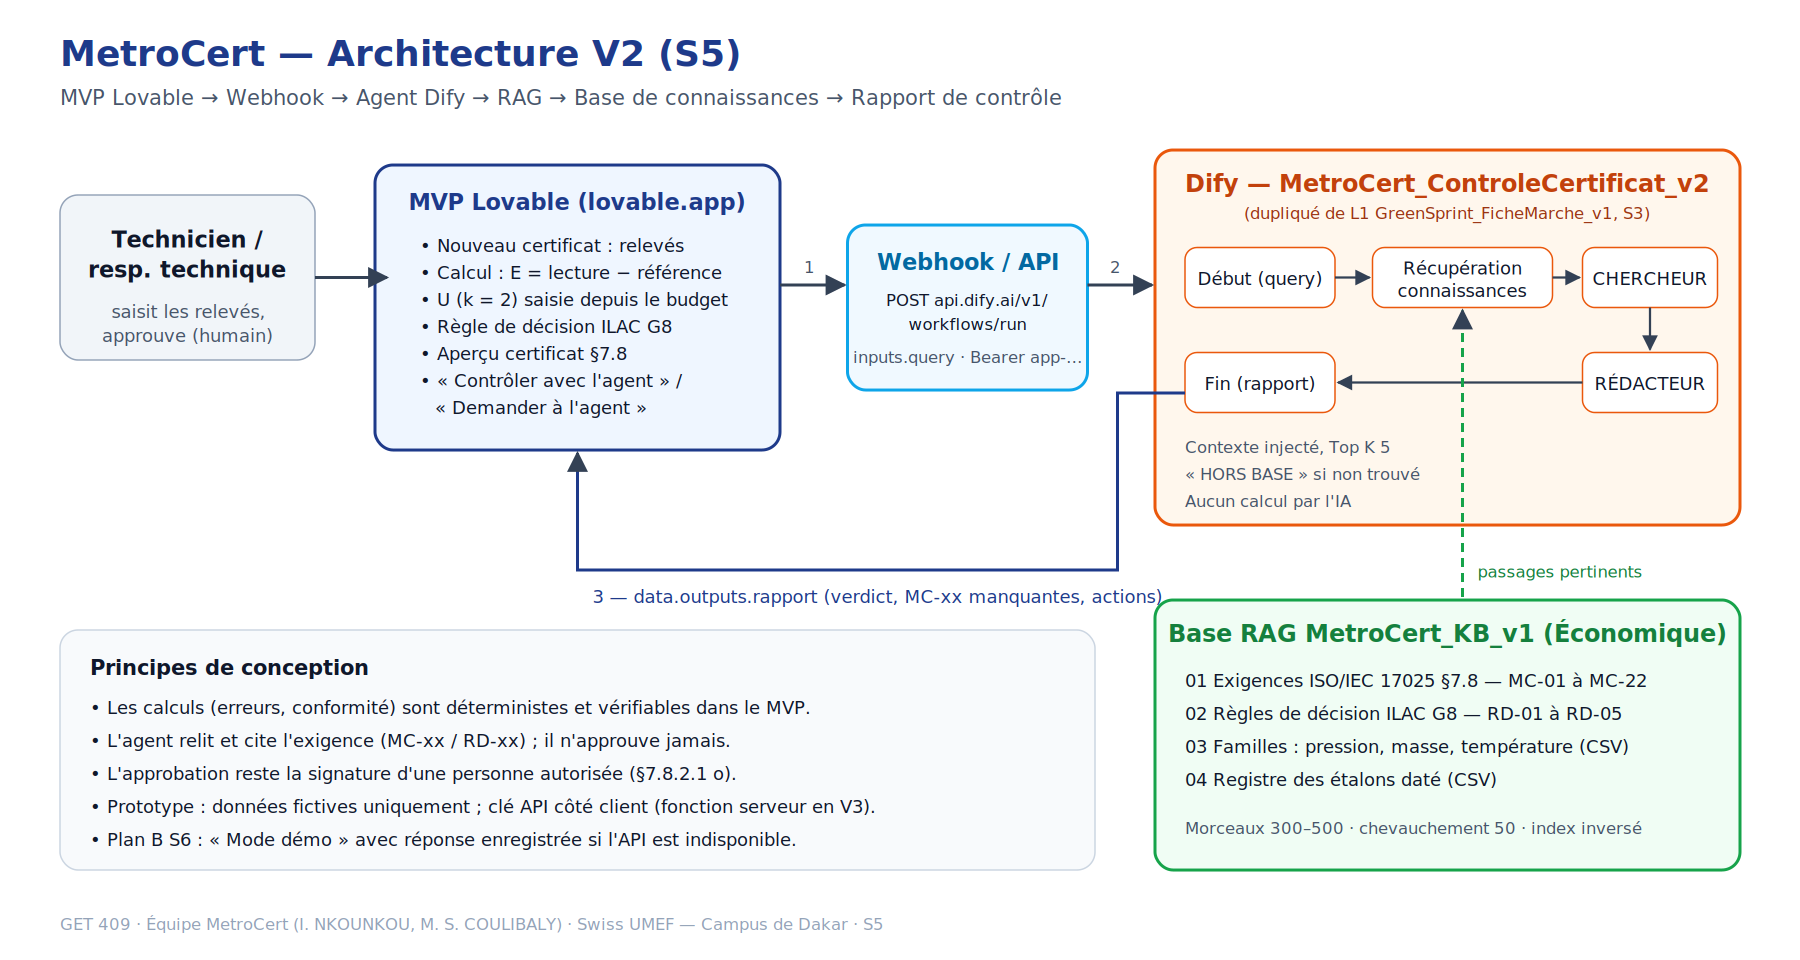
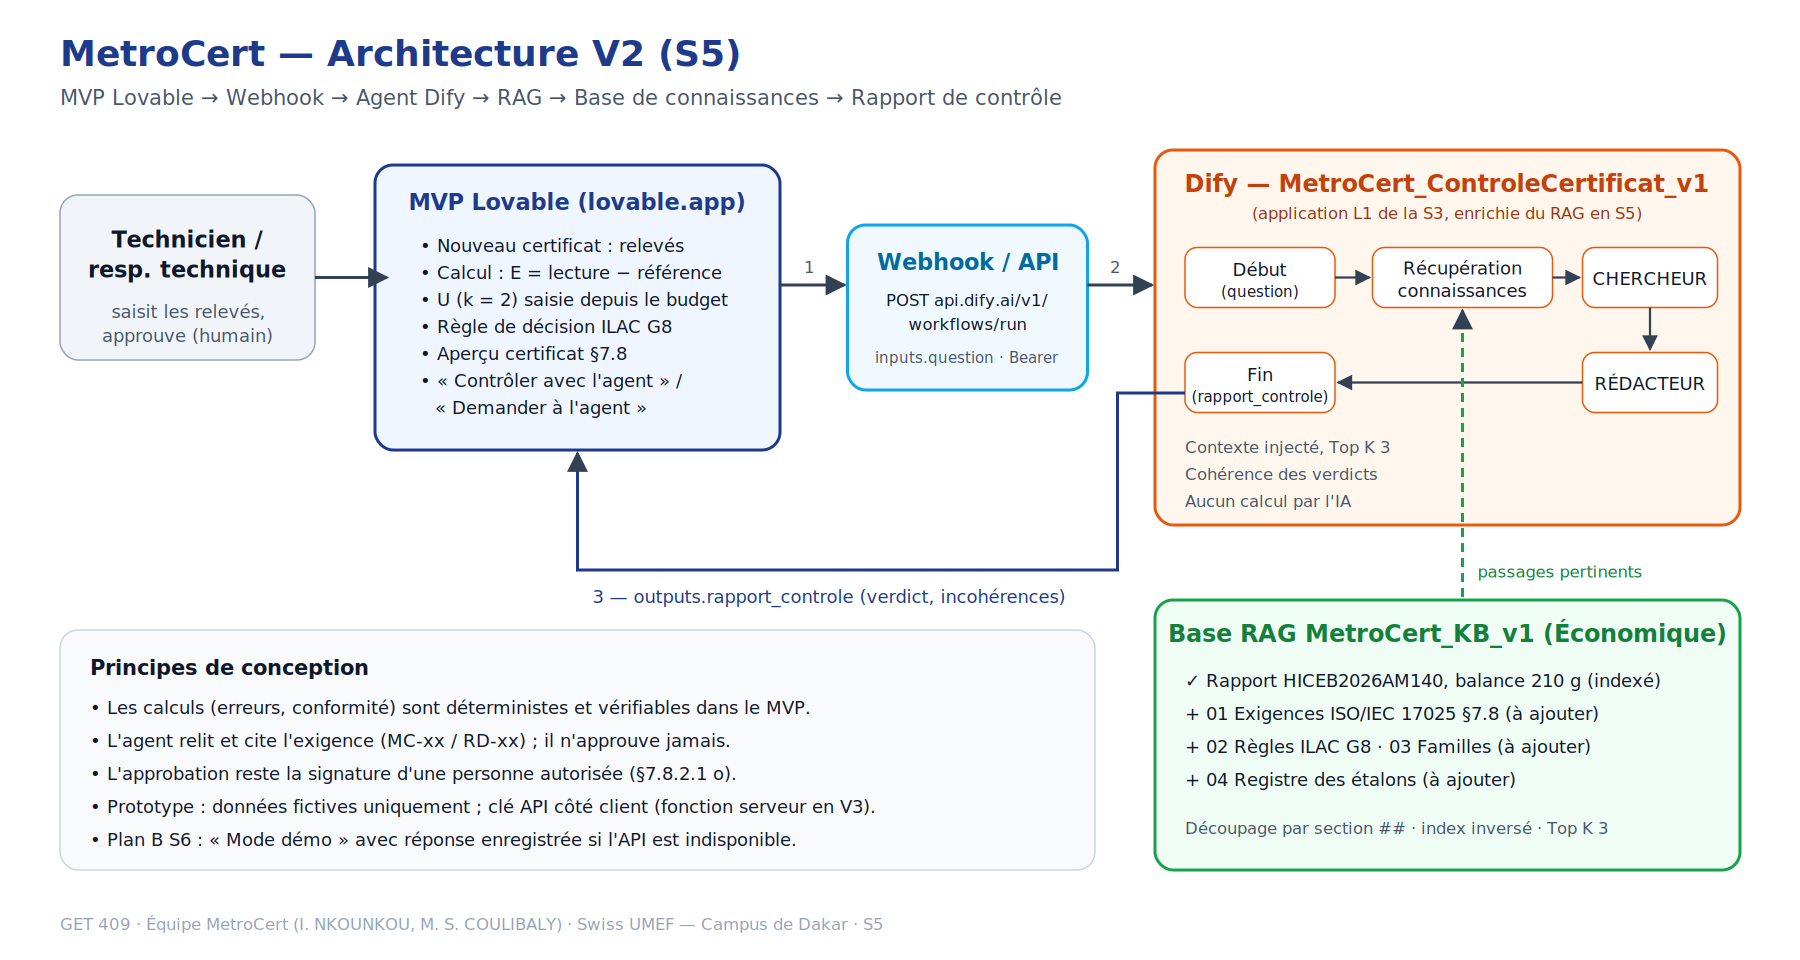
docs(S5): workflow L1 réel (question / rapport_controle), base MetroCert_KB_v1 créée et publiée, schéma V2 à jour
Claude-Session: https://claude.ai/code/session_019D3NUbnXdTsQYhRMtVytfz

diff --git a/docs/s5/s5-rag-webhook.md b/docs/s5/s5-rag-webhook.md
@@ -2,28 +2,32 @@
 
 > Séance 5 / 8 · Livrables : L1 MVP V2 en ligne avec webhook (30 pts) · L2 pipeline RAG, capture Dify (30 pts) · L3 schéma d'architecture V2 (20 pts) · L4 journal de prompts S5, min. 3 prompts (20 pts). Dépôt 48 h après la séance ; S6 = évaluation intermédiaire.
 
-## 0. Point de départ : l'application L1 (S3)
+## 0. État de l'application L1 (mis à jour le 29/09/2026, 19 h 20)
 
-| Élément | État constaté le 29/09/2026 |
+| Élément | État |
 |---|---|
-| Application | `GreenSprint_FicheMarche_v1_[HERRYSTEAM]` — type Workflow — https://udify.app/workflow/QXaHDWAvm4XwbX8c |
-| Web app | Activée, mais **« App unavailable »** : `/api/parameters` renvoie `app_unavailable` (400) |
-| Cause probable | Workflow non publié après une modification, ou fournisseur de modèle (clé Groq / modèle) retiré ou invalide |
-| À faire avant tout | Studio → ouvrir le workflow → vérifier le modèle de chaque nœud LLM (Paramètres → Fournisseurs de modèles) → **Publier une mise à jour** → rouvrir l'URL L1 et vérifier que le formulaire s'affiche |
-
-**Principe retenu** : on garde l'architecture de L1 (Début `query` → CHERCHEUR → RÉDACTEUR → Fin), on la **duplique** en `MetroCert_ControleCertificat_v2` (L1 reste intacte pour l'évaluation S3) et on remplace le métier « fiche marché » par le métier MetroCert : **l'agent de contrôle de complétude du certificat**, défini dans `docs/concept-application.md` §7-8.
+| Application | `MetroCert_ControleCertificat_v1_[HERRYSTEAM]` (id 8348ab36…) — type Workflow — https://udify.app/workflow/QXaHDWAvm4XwbX8c |
+| Modèle | gpt-4.1 (OpenAI), température 0,1 |
+| Entrée | `question` (paragraphe, 5 000 caractères max) — « Projet de certificat à contrôler » |
+| Graphe publié | Début → **Récupération de connaissances** (`MetroCert_KB_v1`, Top K 3) → CHERCHEUR (contexte `{{#context#}}` + contrôle de cohérence des verdicts) → SI/SINON → RÉDACTEUR → Fin |
+| Sorties | `rapport_controle` (branche normale) · `message_erreur` (branche « données insuffisantes ») |
+| Web app | ✅ republiée — le formulaire s'affiche de nouveau (plus d'« App unavailable ») |
+| Titre public de la web app | encore « GreenSprint_FicheMarche_v1_[HERRYSTEAM] » : à renommer dans Publier → Paramètres de la web app |
 
 ```
-Début (query) → Récupération de connaissances (MetroCert_KB_v1) → CHERCHEUR → RÉDACTEUR → Fin (rapport)
+Début (question) → Récupération de connaissances (MetroCert_KB_v1) → CHERCHEUR → SI/SINON → RÉDACTEUR → Fin (rapport_controle)
+                                                                                 └→ Fin (message_erreur)
 ```
 
-L'agent **ne calcule ni les erreurs ni les incertitudes** (calcul déterministe dans le MVP) : il relit, il cite l'exigence manquante, il ne décide pas à la place du signataire.
+L'agent **ne calcule ni les erreurs ni les incertitudes** (calcul déterministe dans le MVP) : il relit, il cite l'exigence manquante, il compare les valeurs écrites à leur critère, il ne décide pas à la place du signataire.
 
 ---
 
 ## Étape A — Base de connaissances `MetroCert_KB_v1` (20 min)
 
-Fichiers prêts dans `docs/s5/kb/` :
+**Déjà fait** : base `MetroCert_KB_v1` créée (mode Économique, index inversé) avec le rapport réel HICEB2026AM140 (balance 210 g) transcrit en texte, client anonymisé, découpé par section (`##`, 1 000 caractères, 11 morceaux). Test de récupération « étendue répétabilité EMT » → morceau « Essai de répétabilité » ✅.
+
+À ajouter ensuite (Documents → Ajouter un fichier, **un fichier à la fois** en Sandbox), fichiers prêts dans `docs/s5/kb/` :
 
 | Fichier | Contenu | Longueur de morceau |
 |---|---|---:|
@@ -32,10 +36,10 @@ Fichiers prêts dans `docs/s5/kb/` :
 | `03_familles_instruments.csv` | Manomètres, balance, thermomètre : référentiels, points, sources d'incertitude, spécification | 300 |
 | `04_registre_etalons_demo.csv` | 5 étalons fictifs, dont **ETA-T-02 échu** (utile pour la démo) | 300 |
 
-1. Dify → **Connaissance** → **+ Créer des connaissances** → Importer à partir d'un fichier → sélectionner les 4 fichiers.
+1. Dify → **Connaissance** → `MetroCert_KB_v1` → **Ajouter un fichier** → un fichier à la fois.
 2. Segmentation personnalisée : délimiteur `\n\n`, longueur 500 (Markdown) — si Dify impose un réglage unique, prendre **300** ; chevauchement 50.
 3. Mode d'index : **Économique** (index inversé, plan gratuit) ; Top K = 3.
-4. Enregistrer & Traiter → attendre 🟢 Disponible → renommer la base `MetroCert_KB_v1`.
+4. Enregistrer & Traiter → attendre 🟢 Disponible.
 5. **Test de récupération** (capture pour L2) :
 
 | # | Requête (mots proches du texte : mode Économique = mots-clés) | Morceau attendu |
@@ -49,11 +53,21 @@ Fichiers prêts dans `docs/s5/kb/` :
 
 ---
 
-## Étape B — Adapter le workflow L1 et le connecter à la base (15 min)
+## Étape B — Connecter la base au workflow L1 (✅ fait le 29/09/2026)
 
-1. Studio → `GreenSprint_FicheMarche_v1_[HERRYSTEAM]` → **⋯ → Dupliquer** → renommer `MetroCert_ControleCertificat_v2`.
-2. Nœud **Début** : variable `query`, type **Paragraphe**, longueur max **4000**, libellé « Certificat à contrôler ou question ».
-3. **+** entre Début et CHERCHEUR → **Récupération de connaissances** : texte de la requête = `Début · query` ; connaissances = `MetroCert_KB_v1` ; Top K = **5** (un certificat touche plusieurs exigences).
+Réalisé directement sur L1 (pas de duplication) :
+
+1. **Récupération de connaissances** insérée entre Début et CHERCHEUR : texte de la requête = `Début · question` ; connaissances = `MetroCert_KB_v1` ; Top K = 3.
+2. CHERCHEUR : **Contexte** = `Récupération de connaissances · result` ; ajout en fin de prompt système d'un bloc « DONNÉES DE LA BASE DE CONNAISSANCES … {{#context#}} » (les rapports de la base servent de référence, jamais de certificat à contrôler).
+3. CHERCHEUR : ajout d'un **contrôle de cohérence des verdicts** (|E| ≤ EMT, différence max ≤ EMT, étendue ≤ EMT, |E| + U ≤ EMT si zone de garde).
+4. RÉDACTEUR : nouvelle rubrique **🔎 INCOHÉRENCES** ; une incohérence impose « ⛔ À corriger avant approbation ».
+5. Test sur HICEB2026AM140 ✅ : 6 nœuds réussis en ≈ 10 s ; l'agent relève l'étendue 0,003 g > EMT 0,002 g déclarée conforme, l'absence de conditions ambiantes, de traçabilité, de date d'émission, de k et de règle de décision.
+6. Publié (version « S3 + RAG KB_v1 »).
+
+Reste à faire : Publier → Accéder à la référence API → **Clé API** → + Créer une nouvelle clé secrète (affichée une seule fois) ; capture L2 (base 🟢 + canvas).
+
+<details><summary>Variante « v2 » avec prompts réécrits (optionnelle, conservée pour mémoire)</summary>
+
 4. Nœud **CHERCHEUR** → Contexte = `Récupération de connaissances · result` → remplacer le prompt SYSTEM par :
 
 ```text
@@ -83,7 +97,7 @@ DONNÉES DE LA BASE DE CONNAISSANCES :
 {{#context#}}
 ```
 
-   USER : `{{#start.query#}}` (sélectionner la variable via `{x}`). Température du modèle : **0,1 à 0,2**.
+   USER : `{{#start.question#}}` (sélectionner la variable via `{x}`). Température du modèle : **0,1 à 0,2**.
 
 5. Nœud **RÉDACTEUR** → prompt SYSTEM :
 
@@ -110,10 +124,12 @@ N'ajoute aucune exigence qui ne figure pas dans l'analyse.
 
    USER : `{{#[CHERCHEUR].text#}}` (sortie du nœud CHERCHEUR).
 
-6. Nœud **Fin** : une seule variable de sortie nommée **`rapport`** = `RÉDACTEUR · text`.
+6. Nœud **Fin** : sortie `rapport_controle` = `RÉDACTEUR · text`.
 7. **Exécuter** (test) avec le certificat incomplet de l'étape D → vérifier le format → **Publier**.
 8. Publier → Accéder à la référence API → **Clé API** → + Créer une nouvelle clé secrète → la copier (affichée une seule fois).
 9. Capture L2 : base 🟢 + canvas du workflow montrant le nœud Récupération relié au CHERCHEUR.
+
+</details>
 
 ---
 
@@ -141,12 +157,13 @@ Headers :
   Authorization: Bearer [COLLER_LA_CLÉ_API_ICI]
   Content-Type: application/json
 Body JSON :
-  { "inputs": { "query": texteAEnvoyer },
+  { "inputs": { "question": texteAEnvoyer },
     "response_mode": "blocking",
     "user": "metrocert-" + Date.now() }
 
 TRAITEMENT DE LA RÉPONSE :
-- Succès : afficher response.data.outputs.rapport dans une zone à fond gris clair,
+- Succès : afficher response.data.outputs.rapport_controle dans une zone à fond gris clair
+  (si elle est absente, afficher response.data.outputs.message_erreur en orange),
   en conservant les retours à la ligne (white-space: pre-wrap)
 - Si response.data.status vaut "failed" : afficher response.data.error en rouge
 - Erreur réseau : "Service temporairement indisponible"
@@ -159,7 +176,7 @@ STYLE : cohérent avec le MVP (bleu #1E3A8A). Responsive mobile. Ne modifie rien
 > Timeout porté à 30 s : deux nœuds LLM en série + récupération dépassent souvent 10 s.
 > **Sécurité** : la clé sera visible dans le code du navigateur (acceptable pour le prototype, à écrire dans la note d'éthique). Ne jamais la committer dans le dépôt public. Version propre si le temps le permet : « Déplace l'appel Dify dans une fonction serveur Lovable Cloud et stocke la clé en secret `DIFY_API_KEY` ».
 
-Dépannage : 401 → clé mal copiée ou régénérée ; `rapport` undefined → ouvrir F12 → Réseau → réponse, vérifier le nom de la variable de sortie du nœud Fin ; 400 `app_unavailable` → workflow non publié.
+Dépannage : 401 → clé mal copiée ou régénérée ; `rapport_controle` undefined → ouvrir F12 → Réseau → réponse, vérifier le nom de la variable de sortie du nœud Fin ; 400 `app_unavailable` → workflow non publié.
 
 ---
 
@@ -212,7 +229,7 @@ le bouton "Contrôler avec l'agent MetroCert" n'appelle pas l'API : il affiche a
 |---|---|---|---|:-:|---|
 | P1 | Prompt système + RAG (`{{#context#}}`) | CHERCHEUR : contrôle MC-01…MC-22 | _à compléter après T1_ | | ex. Top K 3 → 5 si des exigences manquent |
 | P2 | Structure imposée (format de sortie) | RÉDACTEUR : rapport de contrôle | _à compléter_ | | |
-| P3 | Prompt structuré Lovable | Webhook `workflows/run` + `outputs.rapport` | _à compléter_ | | ex. timeout 10 s → 30 s |
+| P3 | Prompt structuré Lovable | Webhook `workflows/run` + `outputs.rapport_controle` | _à compléter_ | | ex. timeout 10 s → 30 s |
 | P4 | Test de cohérence (hors base) | T3 météo | _à compléter_ | | |
 
 Pour chaque prompt : texte exact (copier depuis ce document), résumé de la réponse, note, ce qui a été modifié.
